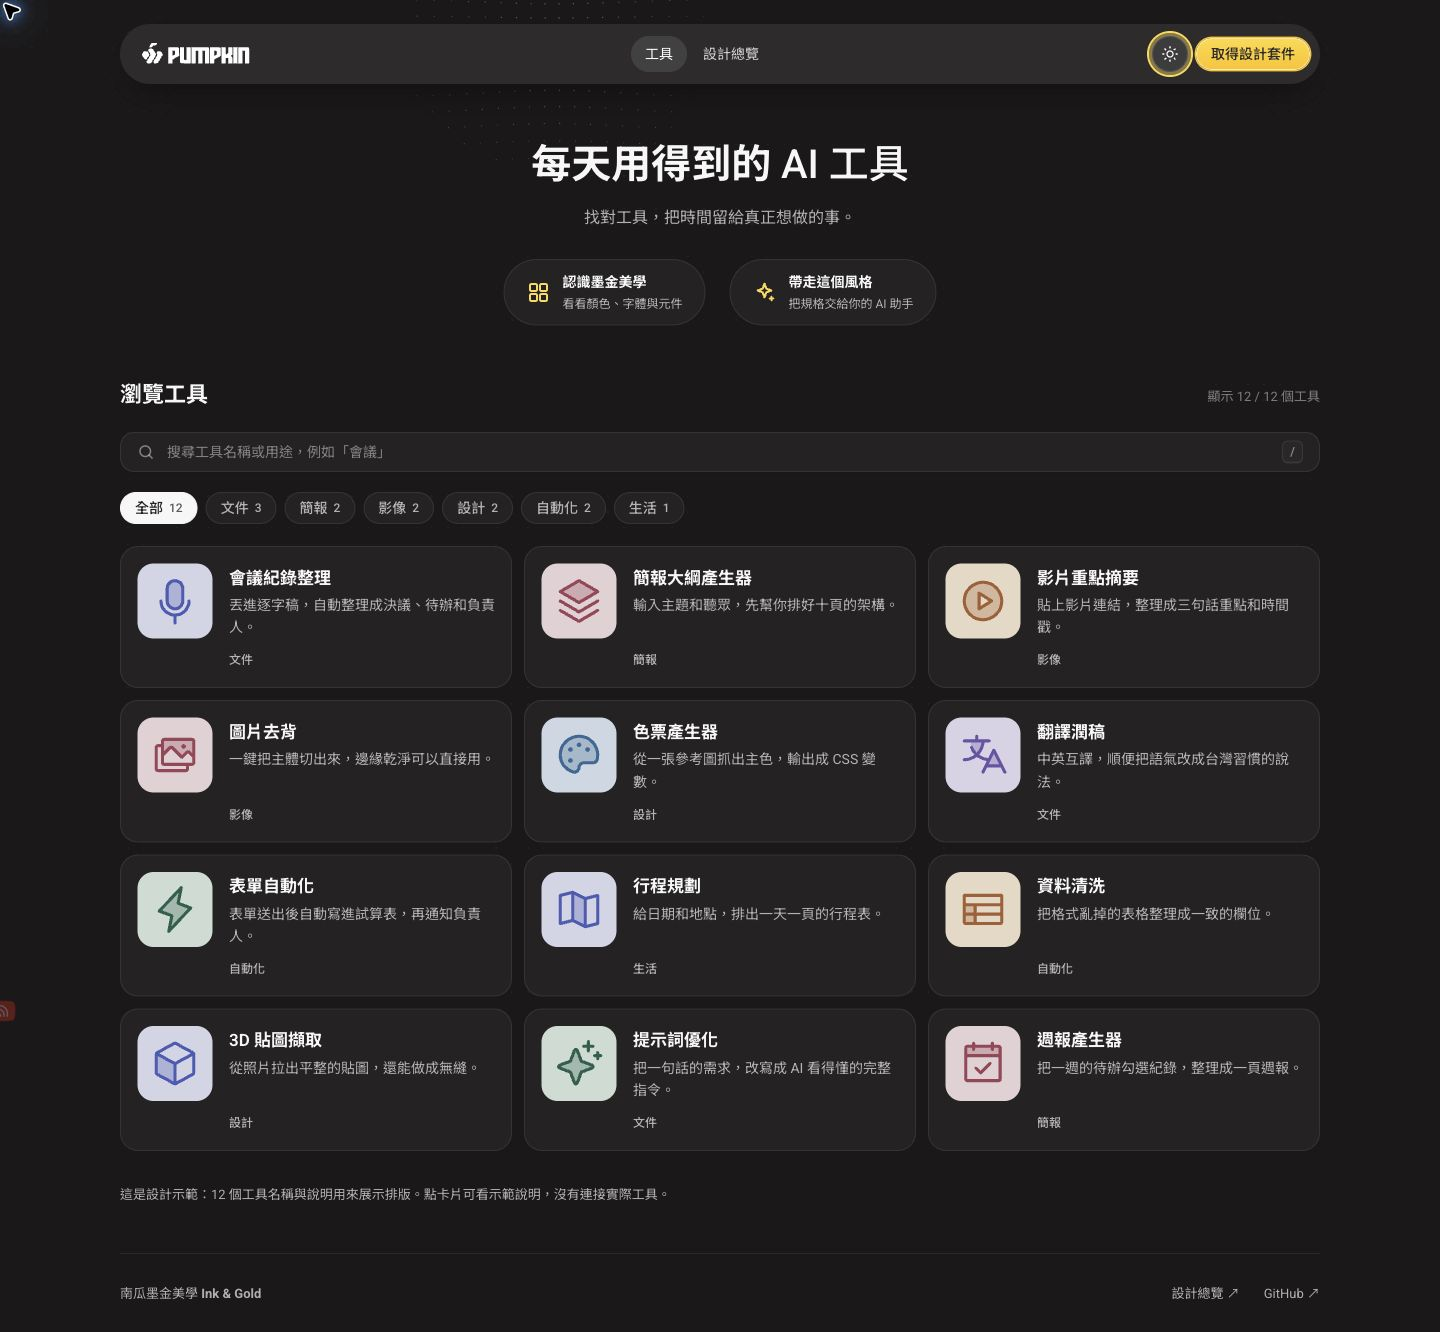
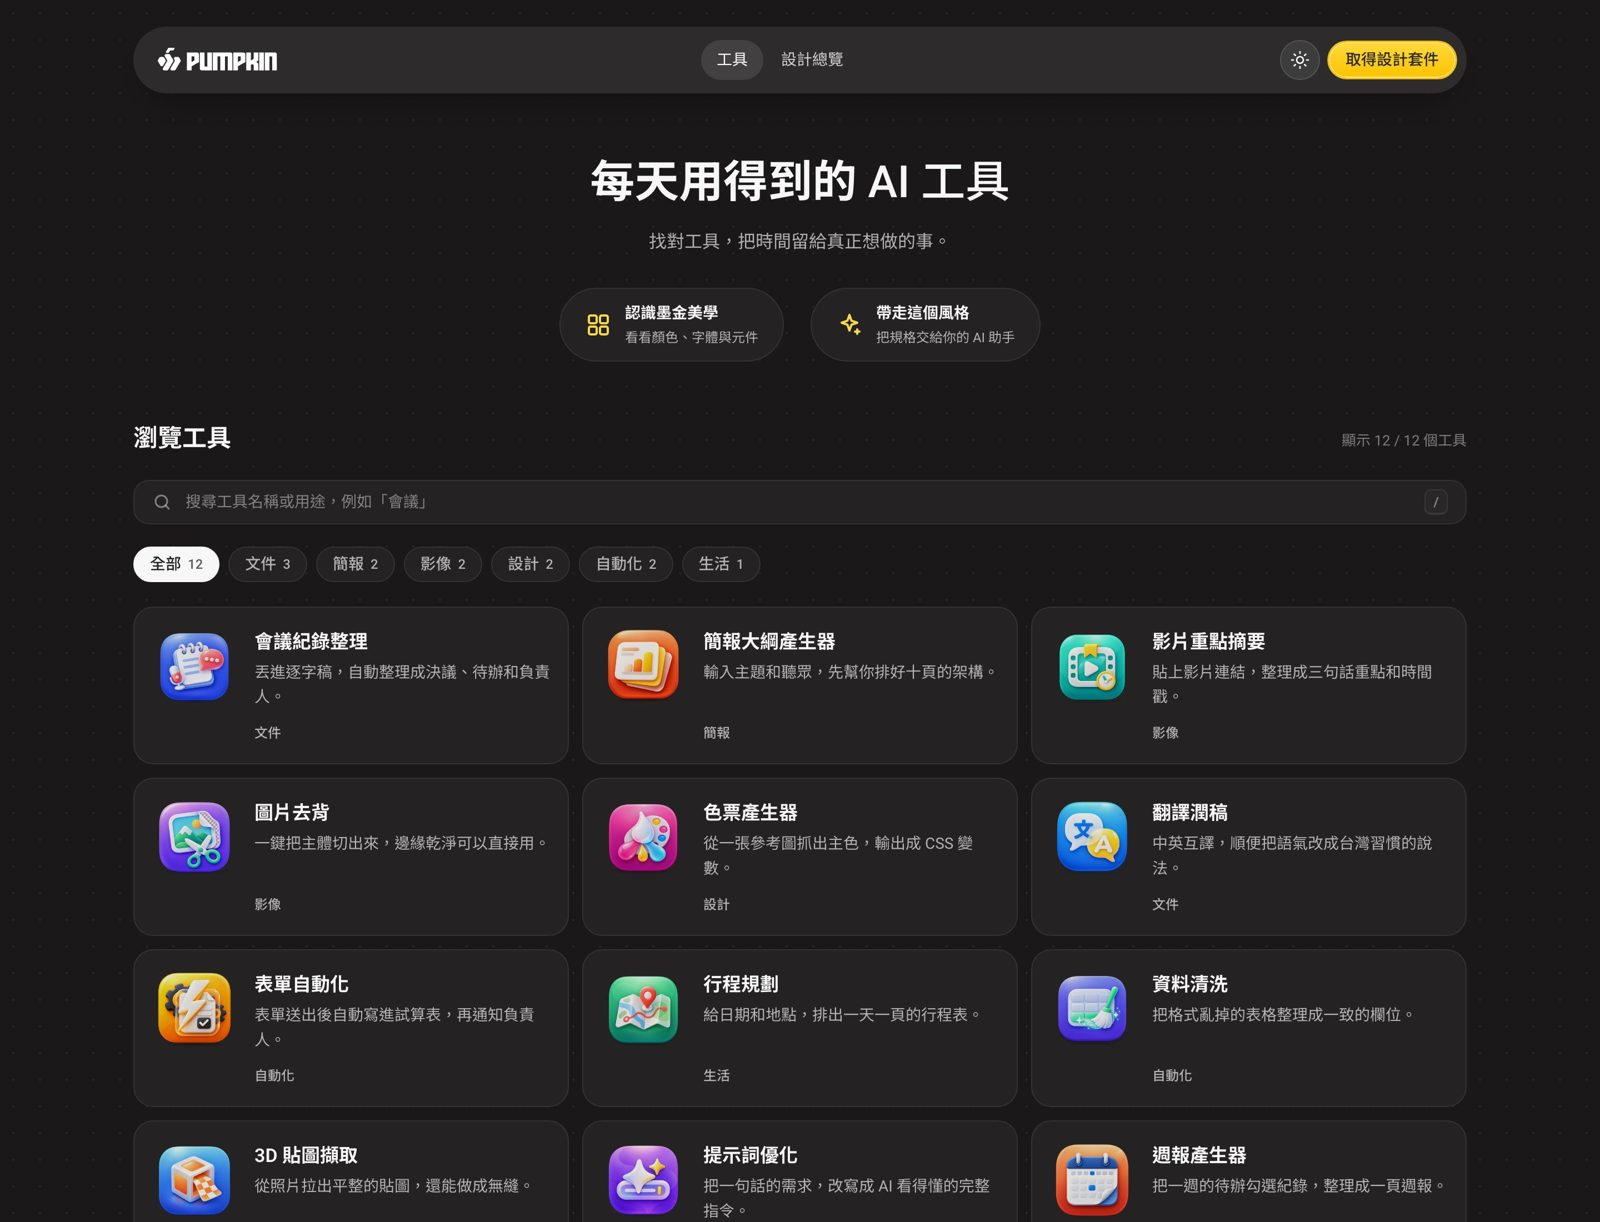
範例頁換成新風格 12 顆工具圖示；重拍日夜截圖；豐富版圖示 prompt；網址參數 ?theme= 切主題

diff --git a/index.html b/index.html
@@ -626,7 +626,7 @@ body.ig.ig-has-dotfield{position:relative;isolation:isolate;background-image:non
       <div class="cell__top"><span class="cell__name">工具卡 Card</span><span class="cell__font">18px · 76px 圖示 · 12px 間距</span></div>
       <div class="cell__center">
         <a class="ig-card ig-card--link ig-tool" href="#" onclick="return false" style="margin:0 -6px">
-          <span class="ig-tool__logo"><img src="assets/icons/mic.svg" alt=""></span>
+          <span class="ig-tool__logo"><img src="assets/icons/app/mic.png" alt=""></span>
           <span class="ig-tool__body">
             <span class="ig-tool__title">會議紀錄整理</span>
             <span class="ig-tool__desc">丟進逐字稿，自動整理成決議、待辦和負責人。</span>
@@ -719,6 +719,6 @@ body.ig.ig-has-dotfield{position:relative;isolation:isolate;background-image:non
   document.addEventListener('click', (e) => { const el = e.target.closest('[data-hex]'); if (el) copy(el.dataset.hex); });
 })();
 </script>
-<script src="references/ink-gold-ui.js"></script>
+<script src="references/ink-gold-ui.js?v=20260920b"></script>
 </body>
 </html>

diff --git a/assets/demo-directory.html b/assets/demo-directory.html
@@ -561,7 +561,7 @@ body.ig.ig-has-dotfield{position:relative;isolation:isolate;background-image:non
   pills.innerHTML = cats.map(c => `<button class="ig-pill${c === cat ? ' is-active' : ''}" aria-pressed="${c === cat}" data-c="${c}">${c} <span class="ig-pill__n">${c === '全部' ? tools.length : tools.filter(t => t[2] === c).length}</span></button>`).join('');
   grid.innerHTML = tools.map(([n, d, c, i]) => `
     <a class="ig-card ig-card--link ig-tool" href="#tool-detail" data-c="${c}" data-k="${n}${d}${c}">
-      <span class="ig-tool__logo"><img src="icons/${i}.svg" width="76" height="76" alt=""></span>
+      <span class="ig-tool__logo"><img src="icons/app/${i}.png" width="76" height="76" alt=""></span>
       <span class="ig-tool__body">
         <span class="ig-tool__title">${n}</span>
         <span class="ig-tool__desc">${d}</span>
@@ -591,6 +591,6 @@ body.ig.ig-has-dotfield{position:relative;isolation:isolate;background-image:non
   apply();
 })();
 </script>
-<script src="../references/ink-gold-ui.js"></script>
+<script src="../references/ink-gold-ui.js?v=20260920b"></script>
 </body>
 </html>

diff --git a/references/ink-gold-ui.js b/references/ink-gold-ui.js
@@ -27,6 +27,7 @@
   if (!externalTheme) {
     let theme = 'day';
     try { if (localStorage.getItem('igTheme') === 'night') theme = 'night'; } catch (_) {}
+    try { const q=new URLSearchParams(location.search).get('theme'); if (q==='night'||q==='day') theme=q; } catch (_) {}
     body.dataset.theme = theme;
     toggles.forEach(b => b.addEventListener('click', () => {
       body.dataset.theme = body.dataset.theme === 'night' ? 'day' : 'night';

diff --git a/references/圖示風格.md b/references/圖示風格.md
@@ -127,6 +127,15 @@ Negative prompt: text, letters, watermark, multiple icons, photo-realistic mater
 
 量測用的 20 張市售 Mac 應用圖示與並排圖存在 Obsidian「_系統/skills/_參考素材/app-icons-2026-09-20/」（第三方素材，不隨本套件公開）。
 
+## 九之前、豐富版 prompt（2026-09-20 南瓜看過範例後定案：要更有層次、色彩、趣味）
+
+第五節是「素版」。正式使用下面這版：底色可用雙色相漸層＋上方柔光；主體「幾個大幾何形狀疊出層次」，白為主、一個彩色點綴、一層微透明玻璃感、內陰影像厚實霧面塑膠。範例頁 12 顆就是這版直出。
+
+```
+macOS Big Sur style app icon, a single rounded square (squircle, corner radius 23% of side) centered on a transparent background, occupying 80% of the canvas. Background: rich smooth vertical gradient from {HEX_TOP} at the top to {HEX_BOTTOM} at the bottom, with a soft radial light glow in the upper area. Subject: {SUBJECT}, centered, filling about 60% of the squircle, built from a few bold overlapping geometric shapes with layered depth: mostly white with a {ACCENT} accent element, soft top highlights, gentle bottom shading, slight glassy translucency on one layer, subtle inner shadow so it feels like thick matte plastic or frosted glass. Playful, characterful, premium product-icon quality, clean vector-like edges, studio lighting from above. Soft short drop shadow under the squircle only. Crisp, centered. No text, no letters, no watermark, single icon only, no thick black outline, no photo-realistic wood or metal texture, no noise, no busy details, no thin lines, not tilted, no perspective view, no white border, no background scene, no people.
+```
+（{SUBJECT} 寫 1～3 個具體物件的組合，例如「折起的地圖＋路線＋立起的定位針」，比單一符號更有戲。）
+
 ## 九、已生成的範例（gpt-image-2，用第五節 prompt 原樣生）
 
 `docs/icon-samples/`：會議紀錄（靛藍）、影片重點（青綠）、圖片去背（葡萄紫）＋紙底／深炭底並排圖。生圖指令：模型 `gpt-image-2`、1024×1024、`background: transparent`、`quality: medium`；生出來就可用，未做遮罩重裁。
